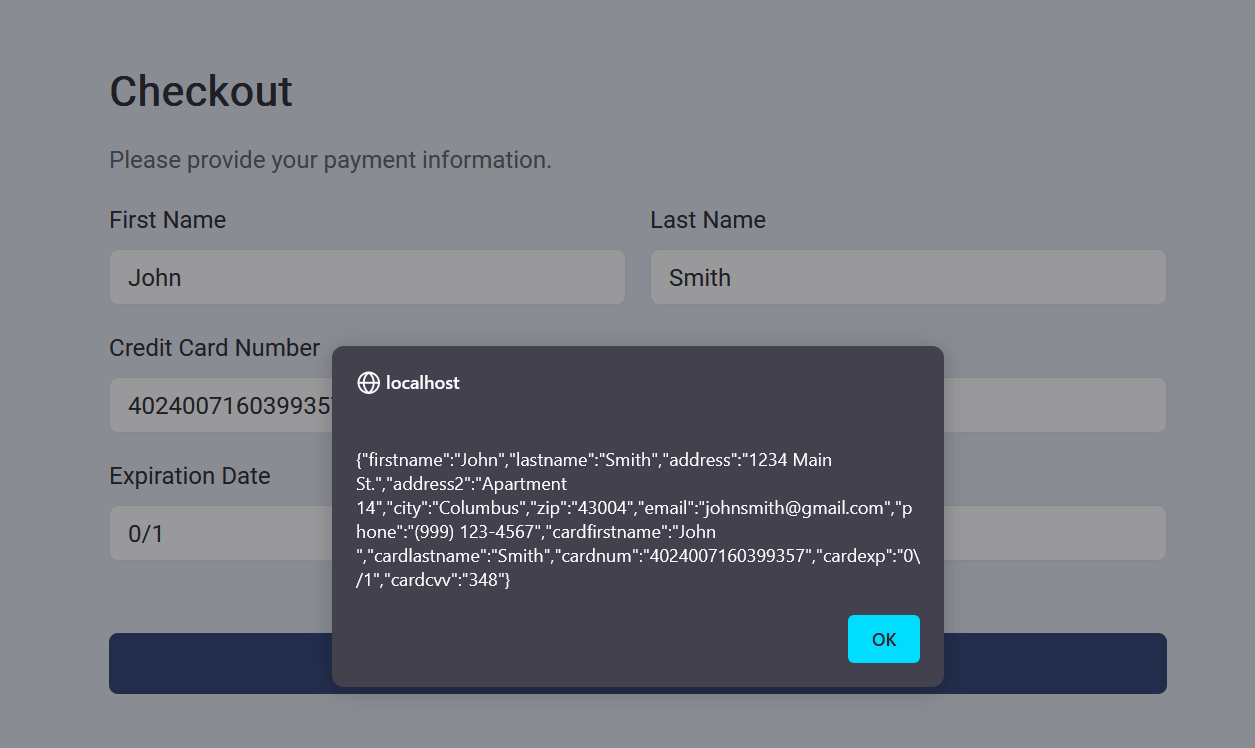
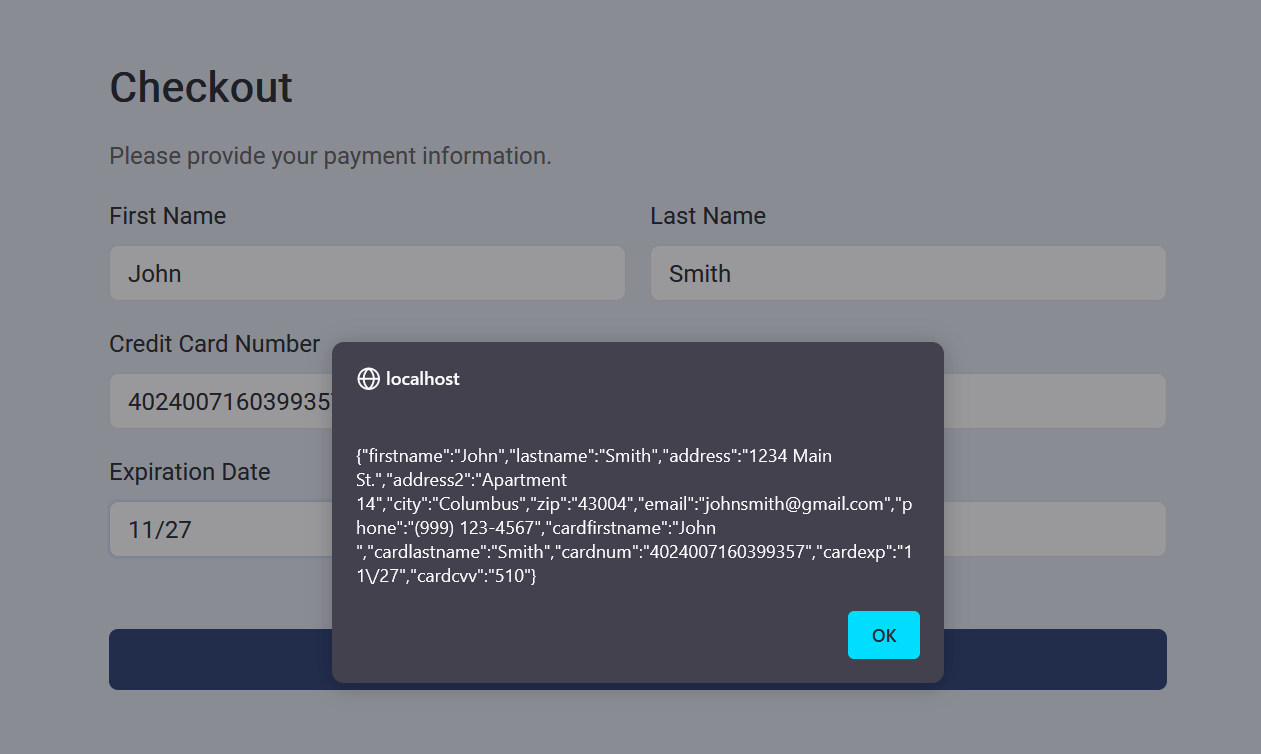
modify read

diff --git a/validate.php b/validate.php
@@ -14,18 +14,27 @@
     $data['cardnum'] = $_POST['cardnum'];
     $data['cardexp'] = $_POST['cardexp'];
     $data['cardcvv'] = $_POST['cardcvv'];
+    $data['success'] = 0;
     
     
     $cardnumformat = "/(^4[0-9]{12}(?:[0-9]{3})?$)|(^(?:5[1-5][0-9]{2}|222[1-9]|22[3-9][0-9]|2[3-6][0-9]{2}|27[01][0-9]|2720)[0-9]{12}$)|(3[47][0-9]{13})|(^3(?:0[0-5]|[68][0-9])[0-9]{11}$)|(^6(?:011|5[0-9]{2})[0-9]{12}$)|(^(?:2131|1800|35\d{3})\d{11}$)/";
-    
+    $expdateformat = "/^(0[1-9]|1[0-2])\/([0-9]{2})$/";
+    $cvvformat = "/([0-9]{3})/";
     // Check if the checkout inputs are empty (Shipping inputs are already validated)
     if(empty($data['cardfirstname'])||empty($data['cardlastname'])||empty($data['cardnum'])||empty($data['cardexp'])|| empty($data['cardcvv'])){
         echo"Fill out the fields!";
         return false;
     }
     // CVV and Expiration are already checked for regex match in the html input
-    else if(preg_match($cardnumformat,$data['cardnum']) == 0){
-        echo "Card Number is not Valid!";
+    else if(preg_match($cardnumformat,$data['cardnum']) == 0) {
+        echo "Card Number is not valid!";
+        return false;
+    }
+    else if(preg_match($expdateformat,$data['cardexp']) == 0){
+        echo "Card Expiration Date is not valid!";
+        return false;
+    }else if (preg_match($cvvformat,$data['cardcvv']) == 0){
+        echo "CVV is not valid!";
         return false;
     }
     else {
@@ -34,8 +43,8 @@
         $stm = $databaseconn->connDB()->prepare($sql);
         $stm->execute([$data['firstname'],$data['lastname'],$data['address'],$data['address2'],$data['city'],$data['zip'],$data['email'],$data['phone'],$data['cardfirstname'],$data['cardlastname'],$data['cardnum'],$data['cardexp'],$data['cardcvv']]);
         //Return of Data in json format 
+        $data["success"] = "1";
         echo (json_encode($data));
-        
     }
 
 

diff --git a/checkout.php b/checkout.php
@@ -193,8 +193,12 @@
         },
         cache:true,
         success: function(data) {
-        alert(data);
-        window.location.href = './complete.html';
+          alert(data);
+
+          let jsondata = JSON.parse(data);
+          if(jsondata.success == 1){
+            window.location.href = "./complete.html"
+          }
         },
         async:true,
         error: function(xhr, status, error) {
